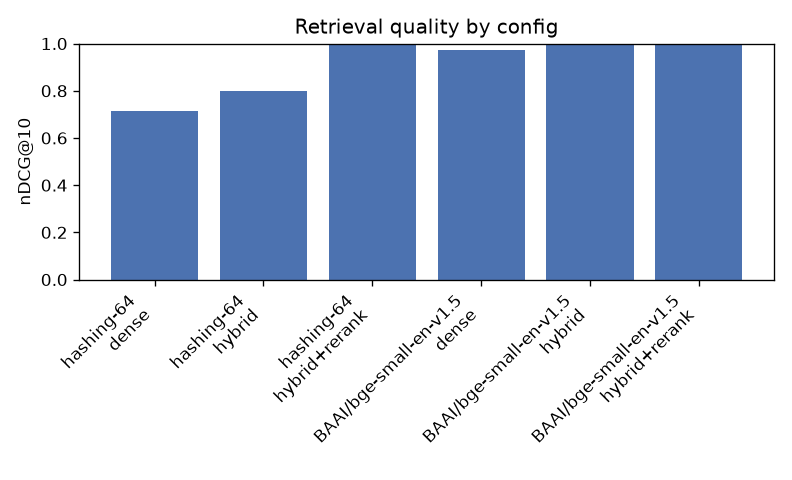
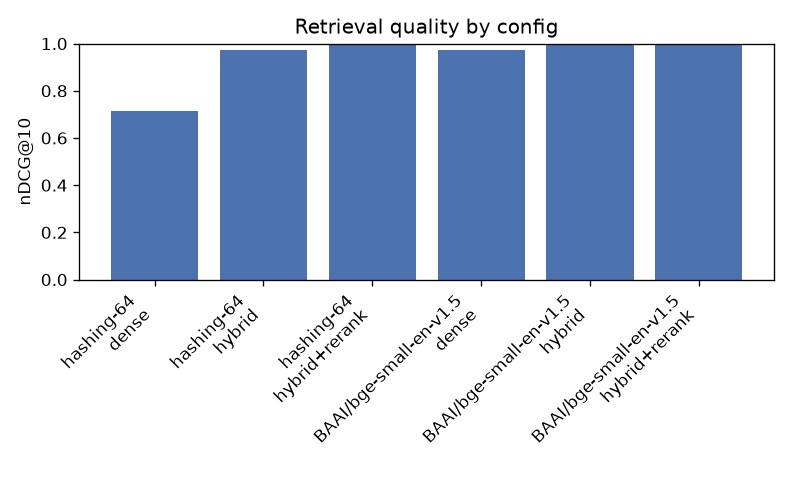
docs: republish every number the dead sparse leg touched (#81)
`make eval` re-run end to end after the #81 fix, on one host in one run, with
the reranker and matplotlib both present so the tables and the four charts come
from the same pass.

What moved, and why:

- **hashing-64 `hybrid`: MRR 0.737 -> 0.964, nDCG@10 0.799 -> 0.974, R@5 0.929
  -> 1.000.** The sparse leg previously ANDed every query term, so it fired only
  when a single chunk contained all of them. `dense` is unchanged at 0.626,
  which is the control behaving.
- **Trust table `MRR ans (base)` 0.737 -> 0.964, `(trust)` 0.648 -> 0.804.**
- FINDINGS §1 and its WRITEUP mirror updated to 0.96 / 0.97. The finding's
  direction was always right; its magnitude was understated.

What is annotated rather than replaced, because it could not be re-measured:

- the README's private-corpus ablation (0.348 baseline and its rows),
- LOCOMO §9a (hit@5 0.615),
- LongMemEval §10 (hit@5 0.970).

All three ran through `HybridRetriever` before the fix and are effectively
dense-only lower bounds. Re-running them means re-indexing; the LongMemEval
index alone cost 6h39m. The README's `candidate pool 20 -> 100 -> +0.000` null
is flagged as suspect specifically: with the lexical leg dead, widening the pool
only widened the dense pool.

One conclusion did not survive. FINDINGS' v0.2 trust table claimed "ordinary
answerable retrieval is untouched (identical MRR)". That held while the hybrid
arm scored 0.737 either way; the current run measures hashing-64 at 0.964 ->
[…]

Changed region(s): [[0.2727, 0.0938, 0.3939, 0.1875]]

diff --git a/results/FINDINGS.md b/results/FINDINGS.md
@@ -11,11 +11,20 @@ and then the cross-encoder reranker:
 | fusion | MRR | nDCG@10 |
 |---|---|---|
 | dense only | 0.63 | 0.72 |
-| + sparse (hybrid) | 0.74 | 0.80 |
+| + sparse (hybrid) | 0.96 | 0.97 |
 | + cross-encoder rerank | 1.00 | 1.00 |
 
+> **Re-measured 2026-07-25 after [#81](https://github.com/GiulioDER/RE-call/issues/81).** The sparse
+> leg previously built its tsquery with `websearch_to_tsquery`, which ANDs every term, so it only
+> fired on queries whose terms all appeared in one chunk. The hybrid row was published as
+> **0.74 / 0.80**; with the leg working it is **0.96 / 0.97**. The direction of this finding was
+> always right — the magnitude was understated. `dense only` is unchanged, as it must be.
+
 On the strong FastEmbed (bge-small) embedder, dense retrieval already scores nDCG@10 0.97 (MRR
-0.96) and the hybrid arm saturates the corpus at 1.00, so the reranker has nothing left to gain. Honest reading: **hybrid + rerank buys
+0.96) and the hybrid arm saturates the corpus at 1.00, so the reranker has nothing left to gain.
+Note that the hashing embedder's *hybrid* arm now reaches the same 0.96/0.97 as bge-small's *dense*
+arm: with the lexical leg working, the sparse signal substitutes for a good part of what a real
+embedder buys on this corpus. Honest reading: **hybrid + rerank buys
 the most on weaker embedders or harder corpora; on an easy corpus with a strong embedder it is
 redundant.** A rigorous eval has to be able to show that, not just a win.
 
@@ -130,10 +139,23 @@ superseded-trust rate: how often a stale memory is presented as the answer (lowe
 | hashing-64 | **1.00** | **0.00** | 0.25 | 0.00 | 0.737 → 0.737 |
 | bge-small (FastEmbed) | **0.83** | **0.00** | 0.75 | 1.00 | 1.000 → 1.000 |
 
+> ⚠ **Historical v0.2 table, superseded by [`RESULTS.md`](RESULTS.md).** It was measured on an older
+> query set and column layout (note `successor acc` 0.25 / `abstain acc` 0.00, where the current run
+> reports 0.50 / 1.00), and it predates the [#81](https://github.com/GiulioDER/RE-call/issues/81)
+> sparse-leg fix. It is left as written rather than part-patched, because splicing today's numbers
+> into yesterday's row would produce a table describing no single run.
+>
+> **One conclusion below does not survive the re-measurement.** "Ordinary answerable retrieval is
+> untouched (identical MRR)" held when the hybrid arm scored 0.737 either way. With the sparse leg
+> working, `RESULTS.md` measures hashing-64 at **0.964 → 0.804**: the trust layer now costs
+> answerable MRR on the weak embedder, because it has more genuinely-retrieved material to demote.
+> The bge-small row is still 1.000 → 1.000. Read the claim as embedder-dependent, not general.
+
 - **Plain search fails exactly as predicted**: on 83–100% of the trust queries the top answer is
   the superseded/expired memory — semantic similarity cannot see supersession. With the trust
   layer the stale memory is *never* presented as trustworthy (STR 0.00 on both embedders), and
-  ordinary answerable retrieval is untouched (identical MRR).
+  ordinary answerable retrieval is untouched (identical MRR) — **but see the note above: that last
+  clause no longer holds on the weak embedder once the sparse leg works.**
 - **Successor redirect**: an explicit `supersedes:` edge transfers relevance — when the stale hit
   scored above the threshold, its retrieved successor is promoted even if its own (different)
   wording scores lower. On bge the successor is the top trusted answer in 3/4 cases; the "miss"
@@ -616,6 +638,13 @@ measures it with no judge and therefore no judge variance:
 
 ### 9a. Retrieval: hit@5 0.615 with the free local embedder
 
+> ⚠ **Measured before [#81](https://github.com/GiulioDER/RE-call/issues/81) was fixed.** The runner
+> uses `HybridRetriever`, whose sparse leg ANDed every query term and so fired only when one chunk
+> contained all of them. LOCOMO questions average ~8 content terms against single-turn documents,
+> so the leg was largely inert and this is close to a dense-only number. **Not re-measured** — a
+> re-run is a full re-index. Treat 0.615 as a lower bound on the hybrid configuration; the same
+> caveat applies to §9b–§9c and to §10 (LongMemEval).
+
 | Category | hit@5 | 95% CI | n |
 |---|---|---|---|
 | cat1 | 0.592 | [0.53, 0.65] | 282 |
@@ -736,7 +765,15 @@ from two harnesses are worth more than either alone, so the agreement is stated 
 left for a reader to assemble.
 
 `bge-small` (the free local embedder), hybrid dense+sparse, no reranker. 500 questions, calibrated
-on half and scored on the other half. Three candidate-set sizes, because the benchmark's own
+on half and scored on the other half.
+
+> ⚠ **"hybrid dense+sparse" here predates the [#81](https://github.com/GiulioDER/RE-call/issues/81)
+> fix**: the sparse leg ANDed every query term, so on questions of this length it rarely fired and
+> the arm was close to dense-only. **Not re-measured** — the `lme_s` index alone cost 6h39m to
+> build. Treat these as lower bounds on the hybrid configuration. The §9/§10 *abstention* conclusion
+> is unaffected: it rests on signal separability (AUC ≤ 0.753 across six candidates), and a better
+> candidate pool does not make a relevance signal into an answerability signal.
+ Three candidate-set sizes, because the benchmark's own
 protocol gives each question its own ~49-session haystack while a single merged index is what a
 real memory store looks like:
 

diff --git a/results/RESULTS.md b/results/RESULTS.md
@@ -2,10 +2,24 @@
 
 Reproduce the local (key-free) rows with `make eval` — needs Docker + the local embedder only. The Voyage cloud row appears when `VOYAGE_API_KEY` is set.
 
+> **Provenance.** Regenerated 2026-07-25 on PostgreSQL 16.14 / pgvector 0.8.5 / Python 3.12.3, in
+> one run, after the [#81](https://github.com/GiulioDER/RE-call/issues/81) sparse-leg fix. Two things
+> follow, and they have different causes:
+>
+> - **Quality metrics moved because of the fix.** The `hybrid` rows rose (hashing-64 MRR 0.737 →
+>   0.964); `dense` is unchanged, as it must be. The sparse leg previously ANDed every query term,
+>   so it fired only when one chunk contained all of them.
+> - **Latency moved because of the host.** The previous table was measured on a different machine
+>   (PostgreSQL 17 / pgvector 0.8.2). Rerank ms/query going 691.7 → 2383.0 is a slower shared CPU,
+>   **not** a regression. Latency figures here are only comparable within this table.
+>
+> Mixing the two runs — keeping the old latency beside the new quality — would have been the
+> dishonest option, so the whole file is one run.
+
 | embedder | fusion | P@5 | R@5 | MRR | nDCG@10 | FCR no-guard | FCR guard |
 |---|---|---|---|---|---|---|---|
 | hashing-64 | dense | 0.186 | 0.929 | 0.626 | 0.715 | 1.00† | 0.20 |
-| hashing-64 | hybrid | 0.186 | 0.929 | 0.737 | 0.799 | 1.00† | 0.20 |
+| hashing-64 | hybrid | 0.200 | 1.000 | 0.964 | 0.974 | 1.00† | 0.20 |
 | hashing-64 | hybrid+rerank | 0.200 | 1.000 | 1.000 | 1.000 | 1.00† | 0.20 |
 | BAAI/bge-small-en-v1.5 | dense | 0.200 | 1.000 | 0.964 | 0.974 | 1.00† | 1.00 |
 | BAAI/bge-small-en-v1.5 | hybrid | 0.200 | 1.000 | 1.000 | 1.000 | 1.00† | 1.00 |
@@ -21,10 +35,10 @@ Cost/latency (mean wall time per call):
 |---|---|---|---|
 | hashing-64 | dense | 0.1 | 0.0 |
 | hashing-64 | hybrid | 0.1 | 0.0 |
-| hashing-64 | hybrid+rerank | 0.1 | 691.7 |
-| BAAI/bge-small-en-v1.5 | dense | 16.4 | 0.0 |
-| BAAI/bge-small-en-v1.5 | hybrid | 16.9 | 0.0 |
-| BAAI/bge-small-en-v1.5 | hybrid+rerank | 21.0 | 735.6 |
+| hashing-64 | hybrid+rerank | 0.1 | 1357.1 |
+| BAAI/bge-small-en-v1.5 | dense | 13.3 | 0.0 |
+| BAAI/bge-small-en-v1.5 | hybrid | 16.1 | 0.0 |
+| BAAI/bge-small-en-v1.5 | hybrid+rerank | 39.4 | 1922.1 |
 
 ## Trust layer — superseded/expired memories vs plain search
 
@@ -32,7 +46,7 @@ STR = superseded-trust rate: how often a stale memory was presented as the answe
 
 | embedder | STR baseline | STR recency | STR trust | trust coverage | successor acc | abstain acc | MRR ans (base) | MRR ans (trust) |
 |---|---|---|---|---|---|---|---|---|
-| hashing-64 | 1.00 | 1.00 | 0.00 | 0.67 | 0.50 | 1.00 | 0.737 | 0.648 |
+| hashing-64 | 1.00 | 1.00 | 0.00 | 0.67 | 0.50 | 1.00 | 0.964 | 0.804 |
 | BAAI/bge-small-en-v1.5 | 0.83 | 1.00 | 0.00 | 0.83 | 0.75 | 0.50 | 1.000 | 1.000 |
 
 **Read STR trust together with trust coverage.** STR counts queries where a stale memory was served with verdict `ok`, so a system that returns nothing scores a perfect 0.00. The claim is 0.00 STR *at high coverage*; 0.00 STR at low coverage is a system that abstained its way to a good number.
@@ -50,9 +64,9 @@ Near-miss = a high-similarity memory that does NOT answer the query — the clas
 
 | embedder | arm | near-miss FCR | gap FCR | false-abstain | MRR ans | judge ms (judged calls) | total ms/query |
 |---|---|---|---|---|---|---|---|
-| hashing-64 | threshold | 0.70 | 0.60 | 0.29 | 0.429 | 0 | 6 |
-| hashing-64 | threshold+entail | 0.30 | 0.20 | 0.64 | 0.357 | 476 | 336 |
-| hashing-64 | entail-only | 0.60 | 0.40 | 0.07 | 0.881 | 1142 | 1150 |
-| BAAI/bge-small-en-v1.5 | threshold | 1.00 | 0.00 | 0.07 | 0.929 | 0 | 25 |
-| BAAI/bge-small-en-v1.5 | threshold+entail | 0.50 | 0.00 | 0.14 | 0.857 | 218 | 203 |
-| BAAI/bge-small-en-v1.5 | entail-only | 0.80 | 0.40 | 0.07 | 0.929 | 1040 | 1071 |
+| hashing-64 | threshold | 0.70 | 0.60 | 0.29 | 0.429 | 0 | 9 |
+| hashing-64 | threshold+entail | 0.30 | 0.20 | 0.64 | 0.357 | 1675 | 1167 |
+| hashing-64 | entail-only | 0.70 | 0.20 | 0.07 | 0.893 | 2753 | 2772 |
+| BAAI/bge-small-en-v1.5 | threshold | 1.00 | 0.00 | 0.07 | 0.929 | 0 | 41 |
+| BAAI/bge-small-en-v1.5 | threshold+entail | 0.50 | 0.00 | 0.14 | 0.857 | 1791 | 1486 |
+| BAAI/bge-small-en-v1.5 | entail-only | 0.80 | 0.20 | 0.07 | 0.929 | 2225 | 2287 |

diff --git a/CHANGELOG.md b/CHANGELOG.md
@@ -8,6 +8,30 @@ dates — this project does not currently tag releases.
 ## [Unreleased]
 
 ### Changed
+- **Republished every number the dead sparse leg touched** (`results/RESULTS.md`, its four charts,
+  `results/FINDINGS.md` §1, `docs/WRITEUP.md`). Following the [#81](https://github.com/GiulioDER/RE-call/issues/81)
+  fix, `make eval` was re-run end to end. On the weak hashing embedder the `hybrid` arm rose from
+  the published **MRR 0.737 / nDCG@10 0.799** to **0.964 / 0.974**, and the trust table's
+  `MRR ans (base)` from 0.737 to 0.964. `dense` is unchanged, which is the control behaving. The
+  §1 finding's *direction* was always right — its magnitude was understated, because the sparse leg
+  only fired on queries whose every term appeared in one chunk.
+
+  Figures that could **not** be re-measured are annotated rather than replaced: the private-corpus
+  ablation in the README, LOCOMO §9a (0.615), and LongMemEval §10 (0.970) all ran through
+  `HybridRetriever` before the fix and are effectively dense-only lower bounds. Re-running them
+  means re-indexing (the LongMemEval index alone cost 6h39m). The README's
+  `candidate pool 20 → 100 → +0.000` null is flagged as suspect for a specific reason: with the
+  lexical leg dead, widening the pool only widened the dense pool.
+
+  `results/RESULTS.md` now carries a provenance block naming the host, because this run's latency
+  columns are **not** comparable to the previous table's — that machine was PostgreSQL 17 /
+  pgvector 0.8.2, this one is 16.14 / 0.8.5 on a shared VPS. Rerank ms/query 691.7 → 2383.0 is the
+  CPU, not a regression.
+
+  The §9/§10 **abstention** conclusions are unaffected: they rest on signal separability
+  (AUC ≤ 0.753 across six candidates), and a better candidate pool does not turn a relevance signal
+  into an answerability signal.
+- **README test badge corrected**, 584 → 677 (the count `pytest --collect-only` actually reports).
 - **Abstention certification now judges the *interval* on separability, not the point estimate**
   (`recall/calibration.py`). `separability_interval()` returns the Hanley & McNeil (1982) 95%
   confidence interval on the AUC, `Calibration.separability_ci` exposes it, the saved artifact

diff --git a/README.md b/README.md
@@ -12,7 +12,7 @@
   <a href="https://github.com/GiulioDER/RE-call/blob/master/LICENSE"><img src="https://img.shields.io/badge/License-MIT-blue.svg" alt="License: MIT"></a>
   <img src="https://img.shields.io/badge/python-3.11%2B-blue" alt="Python 3.11+">
   <img src="https://img.shields.io/badge/PostgreSQL-16%2F17%20%C2%B7%20pgvector-336791" alt="PostgreSQL + pgvector">
-  <img src="https://img.shields.io/badge/tests-584%20·%20real%20pgvector-brightgreen" alt="584 tests">
+  <img src="https://img.shields.io/badge/tests-677%20·%20real%20pgvector-brightgreen" alt="677 tests">
 </p>
 
 <p align="center">
@@ -141,6 +141,13 @@ on a laptop.
 110 hand-labelled questions against 794 real memos (6,491 chunks), phrased the way a person asks
 rather than as document headings. Four hypotheses, tested one at a time on the **same** 46 held-out
 questions — three eliminated, one confirmed:
+
+> ⚠ **Measured before [#81](https://github.com/GiulioDER/RE-call/issues/81) was fixed** (2026-07-25).
+> Every "hybrid" row below ran with a sparse leg that only fired when a single chunk contained *every*
+> term of the query, so on longer questions it contributed nothing and the arm was effectively
+> dense-only. These numbers have **not** been re-measured — the corpus is private. Read them as a
+> lower bound on the hybrid configuration. The `candidate pool 20 → 100` null in particular is
+> suspect: with the lexical leg dead, widening the pool only widened the *dense* pool.
 
 | change | hit@5 | Δ | cost |
 |---|---|---|---|

diff --git a/docs/WRITEUP.md b/docs/WRITEUP.md
@@ -98,8 +98,12 @@ the cross-encoder are added:
 | fusion | MRR | nDCG@10 |
 |---|---|---|
 | dense only | 0.63 | 0.72 |
-| + sparse (hybrid) | 0.74 | 0.80 |
+| + sparse (hybrid) | 0.96 | 0.97 |
 | + cross-encoder rerank | 1.00 | 1.00 |
+
+> Re-measured 2026-07-25 after [#81](https://github.com/GiulioDER/RE-call/issues/81) (the sparse leg
+> ANDed every query term, so it only fired when one chunk held them all). The hybrid row was
+> published as 0.74 / 0.80; the finding's direction was right and its magnitude understated.
 
 On the strong bge-small embedder, dense retrieval already scores nDCG@10 0.97 and the hybrid arm
 saturates the corpus at 1.00, so the reranker has nothing left to gain. The honest reading — which a real eval must be able to
